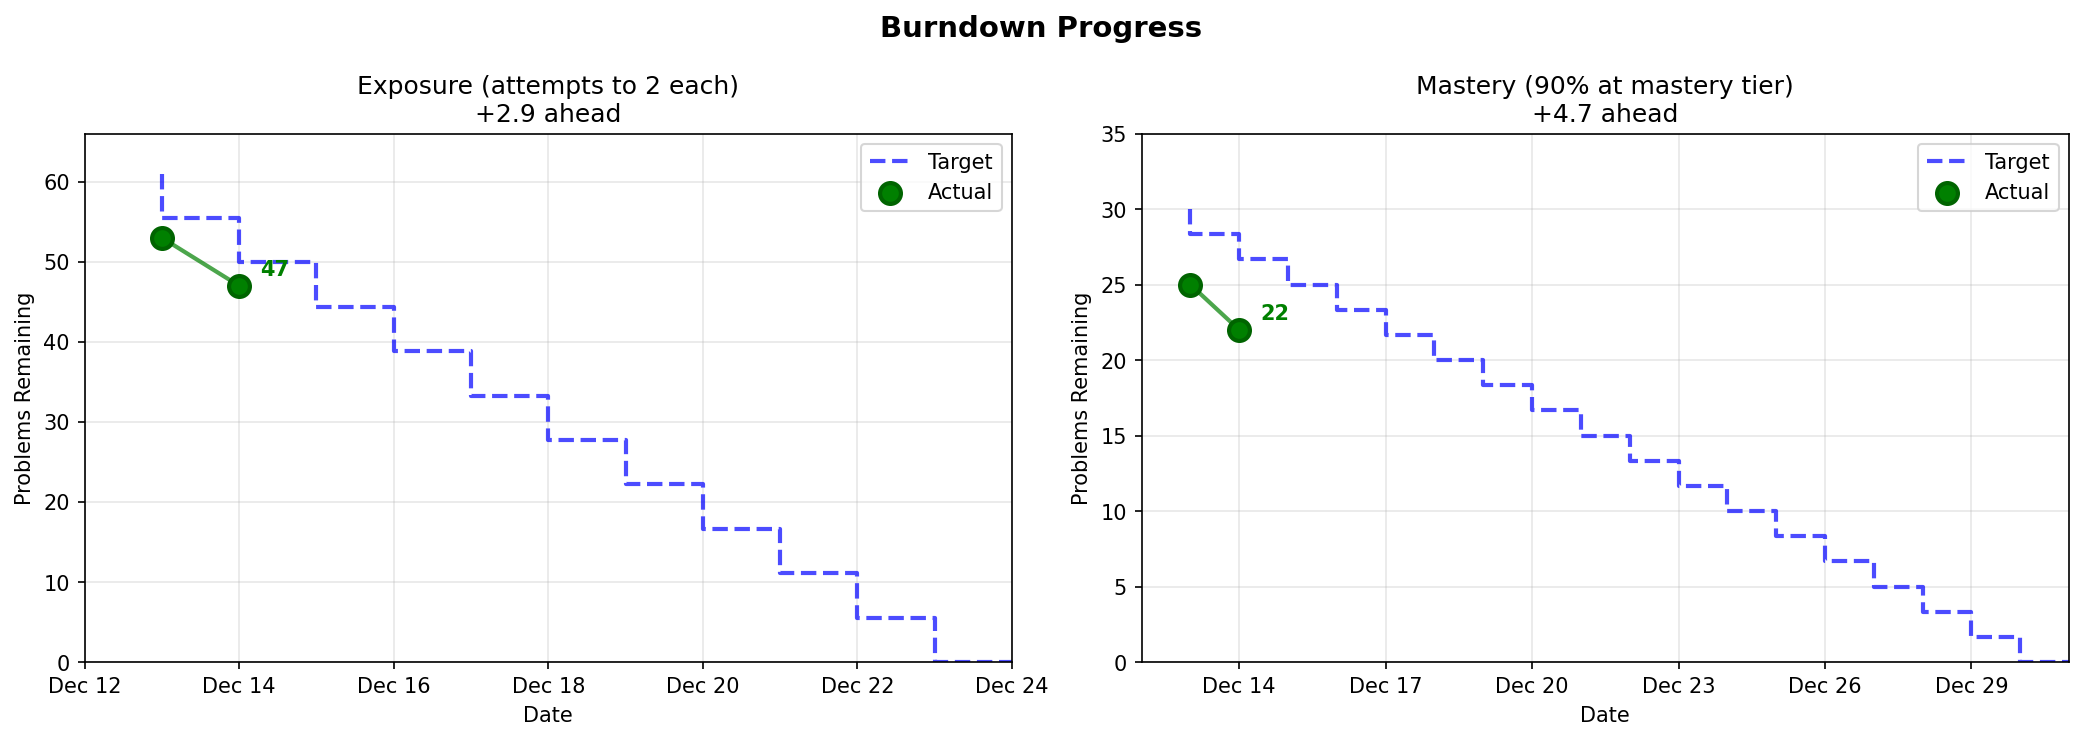
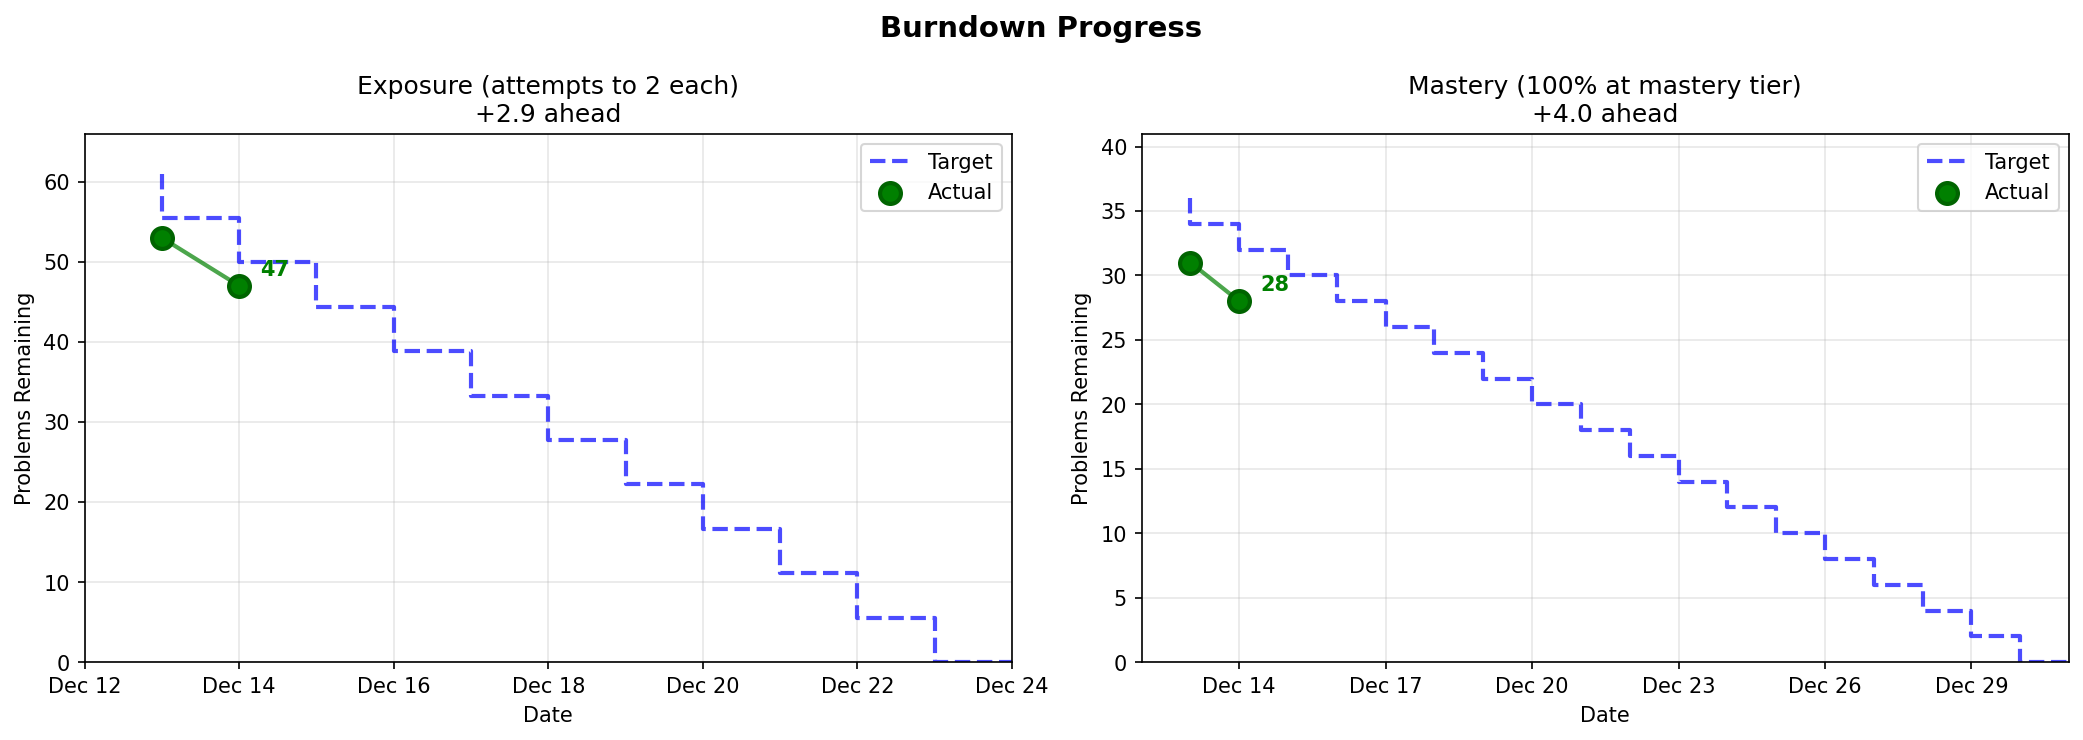
Increase mastery target from 90% to 100%

diff --git a/scripts/burndown.py b/scripts/burndown.py
@@ -17,7 +17,7 @@ import matplotlib.dates as mdates
 START_DATE = date(2025, 12, 13)
 EXPOSURE_TARGET_DATE = date(2025, 12, 24)
 MASTERY_TARGET_DATE = date(2025, 12, 31)
-MASTERY_TARGET_PERCENT = 90
+MASTERY_TARGET_PERCENT = 100
 MASTERY_TIME_THRESHOLD = 20  # minutes
 
 
@@ -109,7 +109,8 @@ def calculate_burndown_stats(problems, as_of_date=None):
     # On Dec 13 (commit b86a6fa): 22 had 0 attempts, 17 had 1 attempt, 20 had 2+
     # So: (22*2) + (17*1) + (20*0) = 44 + 17 + 0 = 61 attempts remaining
     stats['start_exposure'] = 61  # Fixed: attempts remaining on Dec 13
-    stats['start_mastery'] = 30   # Fixed: what we needed on Dec 13
+    # On Dec 13: 23 mastered, target 100% = 59, so needed 36
+    stats['start_mastery'] = 36   # Fixed: what we needed on Dec 13
 
     return stats
 
@@ -283,7 +284,7 @@ def generate_burndown_chart(stats, output_path, problems=None):
     mast_ahead = calculate_ahead_behind(mast_current, mast_start, START_DATE, mast_target_date)
     mast_status = f"+{mast_ahead:.1f} ahead" if mast_ahead >= 0 else f"{mast_ahead:.1f} behind"
 
-    ax2.set_title(f'Mastery (90% at mastery tier)\n{mast_status}', fontsize=12)
+    ax2.set_title(f'Mastery (100% at mastery tier)\n{mast_status}', fontsize=12)
     ax2.set_xlabel('Date')
     ax2.set_ylabel('Problems Remaining')
     ax2.set_ylim(bottom=0, top=mast_start + 5)
